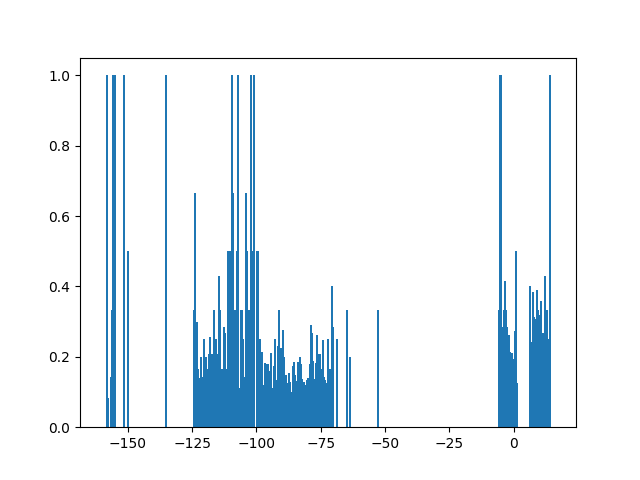
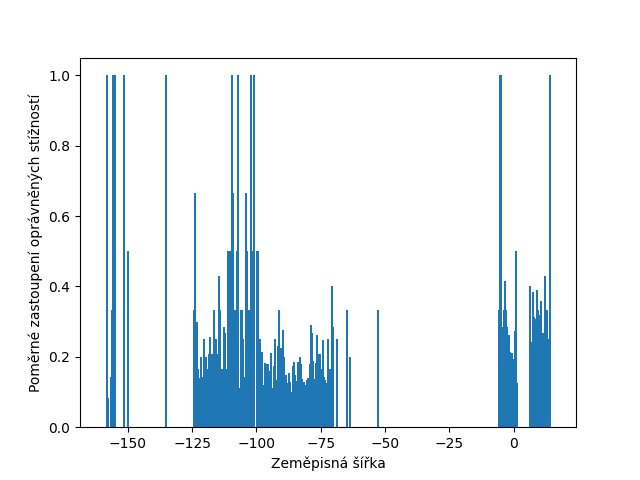
Edit in Task 2

Changed region(s): [[0.0312, 0.1875, 0.0625, 0.8125], [0.4375, 0.9375, 0.5938, 1.0]]

diff --git a/uloha_2.py b/uloha_2.py
@@ -47,6 +47,8 @@ def funkcnost_podle_sirky():
         y.append(ruzne_sirky[klic])
 
     plt.bar(x, y)
+    plt.xlabel("Zeměpisná šířka")
+    plt.ylabel("Poměrné zastoupení oprávněných stížností")
     plt.show()
 
 @staticmethod
@@ -154,7 +156,7 @@ def mesto_s_nejvice_nefungujicimi_kontrolkami():
     
 
 if __name__ == '__main__':
-    # funkcnost_podle_sirky()
+    funkcnost_podle_sirky()
     # celkova_funkcnost()
     # aktivni_automaty_v_jednotlivych_statech()
     # nejvice_stiznosti_v_casech()
